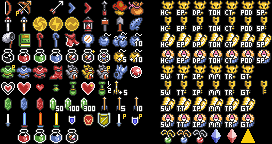
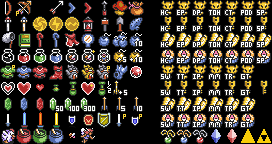
Update sprite sheets and requirements

Changed region(s): [[0.0, 0.8889, 0.3529, 1.0], [0.9412, 0.8889, 1.0, 1.0]]

diff --git a/source/gui/customizer/item_sprite_data.py b/source/gui/customizer/item_sprite_data.py
@@ -216,4 +216,5 @@ item_table = {
     "Green Potion": (8, 2),
     "Blue Potion": (8, 3),
     "Bee Trap": (8, 4),
+    "Fairy": (8, 5),
 }
